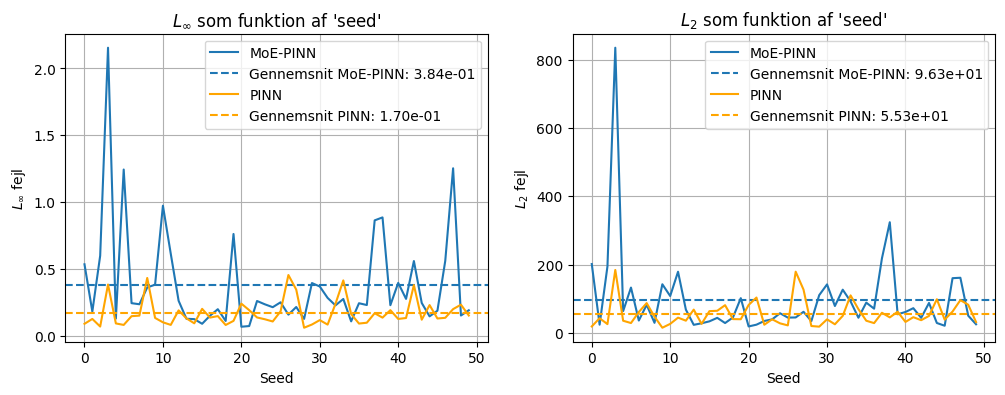
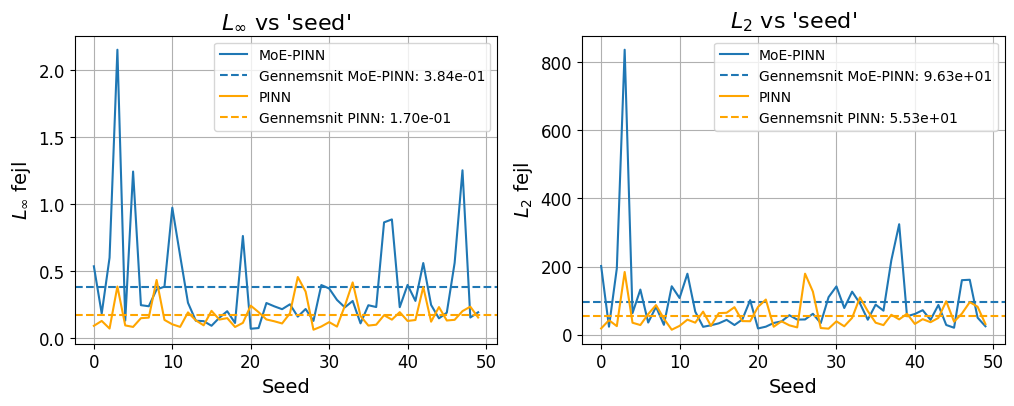
last plots

Changed region(s): [[0.0, 0.0304, 1.0, 0.9722]]

diff --git a/Data new/ExtraPlots.py b/Data new/ExtraPlots.py
@@ -3,6 +3,17 @@
 import numpy as np
 import matplotlib.pyplot as plt
 
+# Global fontstørrelse for alle plots
+plt.rcParams.update({
+    "font.size": 14,          # standard tekst
+    "axes.titlesize": 16,     # titler
+    "axes.labelsize": 14,     # akse-labels
+    "xtick.labelsize": 12,    # x-ticks
+    "ytick.labelsize": 12,    # y-ticks
+    "legend.fontsize": 10,    # legends
+    "figure.titlesize": 18,   # evt. overordnet figur-titel
+})
+
 data_moe = np.load("moe2dpos_expanded.npz")
 # data_moe_softa = np.load("moe2dpos_expa_softa.npz")
 data_pinn = np.load("pinn2dpos_expanded.npz")
@@ -11,7 +22,7 @@ data_softa = np.load("pinn2dpos_expa_softa.npz")
 seeds = np.arange(len(data_moe["L_max"]))
 
 # %%
-titles = ("MoE-PINN","MoE-PINN med SoftAdapt", "PINN med SoftAdapt")
+titles = ("MoE-PINN", "PINN med SoftAdapt")
 
 for i, model in enumerate((data_moe, data_softa)):
 
@@ -23,7 +34,7 @@ for i, model in enumerate((data_moe, data_softa)):
     ax[0].axhline(np.mean(data_pinn["L_max"]), linestyle="--", label=fr"Gennemsnit PINN: {np.mean(data_pinn['L_max']):.2e}", color ="orange")
     ax[0].set_xlabel("Seed")
     ax[0].set_ylabel(r"$L_\infty$ fejl")
-    ax[0].set_title(r"$L_\infty$ som funktion af 'seed'")
+    ax[0].set_title(r"$L_\infty$ vs 'seed'")
     ax[0].grid(True)
     ax[0].legend()
 
@@ -33,7 +44,7 @@ for i, model in enumerate((data_moe, data_softa)):
     ax[1].axhline(np.mean(data_pinn["L_2"]), linestyle="--", label=fr"Gennemsnit PINN: {np.mean(data_pinn['L_2']):.2e}", color ="orange")
     ax[1].set_xlabel("Seed")
     ax[1].set_ylabel(r"$L_2$ fejl")
-    ax[1].set_title(r"$L_2$ som funktion af 'seed'")
+    ax[1].set_title(r"$L_2$ vs 'seed'")
     ax[1].grid(True)
     ax[1].legend()
 
@@ -75,7 +86,7 @@ plt.semilogy(epochs, data_softa["val_l2"], label="PINN med SoftAdapt", color ="g
 
 plt.xlabel("Epoch")
 plt.ylabel(r"$L_2$-valideringsfejl")
-plt.title(r"Gennemsnitlig $L_2$-valideringsfejl som funktion af 'epoch'")
+plt.title(r"Gennemsnitlig $L_2$-valideringsfejl vs 'epoch'")
 plt.grid(True, which="both")
 plt.legend()
 plt.tight_layout()
@@ -95,8 +106,39 @@ plt.semilogy(epochs, data_softa["val_lmax"], label="PINN med SoftAdapt", color =
 
 plt.xlabel("Epoch")
 plt.ylabel(r"$L_\infty$-valideringsfejl")
-plt.title(r"Gennemsnitlig $L_\infty$-valideringsfejl som funktion af 'epoch'")
+plt.title(r"Gennemsnitlig $L_\infty$-valideringsfejl vs 'epoch'")
 plt.grid(True, which="both")
 plt.legend()
 plt.tight_layout()
 plt.show()
+
+#%%
+
+fig, ax = plt.subplots(1, 2, figsize=(12, 4))
+
+# Valideringsfejl: L2
+epochs = np.arange(len(data_moe["val_l2"]))
+
+ax[0].semilogy(epochs, data_moe["val_lmax"], label="MoE-PINN")
+ax[0].semilogy(epochs, data_pinn["val_lmax"], label="PINN", color="orange")
+# plt.semilogy(epochs, data_moe_softa["val_lmax"], label="MoE-PINN med SoftAdapt")
+ax[0].semilogy(epochs, data_softa["val_lmax"], label="PINN med SoftAdapt", color ="green")
+
+ax[0].set_xlabel("Epoch")
+ax[0].set_ylabel(r"$L_\infty$-valideringsfejl")
+ax[0].set_title(r"Gennemsnitlig $L_\infty$-valideringsfejl vs 'epoch'")
+ax[0].grid(True, which="both")
+ax[0].legend()
+
+ax[1].semilogy(epochs, data_moe["val_l2"], label="MoE-PINN")
+ax[1].semilogy(epochs, data_pinn["val_l2"], label="PINN", color="orange")
+# plt.semilogy(epochs, data_moe_softa["val_l2"], label="MoE-PINN med SoftAdapt")
+ax[1].semilogy(epochs, data_softa["val_l2"], label="PINN med SoftAdapt", color ="green")
+
+ax[1].set_xlabel("Epoch")
+ax[1].set_ylabel(r"$L_2$-valideringsfejl")
+ax[1].set_title(r"Gennemsnitlig $L_2$-valideringsfejl vs 'epoch'")
+ax[1].grid(True, which="both")
+ax[1].legend()
+
+# %%

diff --git a/Data new/Plot2DPoisson.py b/Data new/Plot2DPoisson.py
@@ -4,26 +4,41 @@ import numpy as np
 import matplotlib.pyplot as plt
 from matplotlib.colors import TwoSlopeNorm
 
+# Fælles fontstørrelser for alle plots
+TITLE_SIZE = 16
+LABEL_SIZE = 14
+TICK_SIZE = 12
+CBAR_TICK_SIZE = 12
+
+plt.rcParams.update({
+    "font.size": LABEL_SIZE,
+    "axes.titlesize": TITLE_SIZE,
+    "axes.labelsize": LABEL_SIZE,
+    "xtick.labelsize": TICK_SIZE,
+    "ytick.labelsize": TICK_SIZE,
+    "legend.fontsize": 12,
+})
+
 # Indlæs data
 data_moe = np.load("moe2dpos_expanded.npz")
-data_moe_softa = np.load("moe2dpos_expa_softa.npz")
+# data_moe_softa = np.load("moe2dpos_expa_softa.npz")
 data_pinn = np.load("pinn2dpos_expanded.npz")
 data_softa = np.load("pinn2dpos_expa_softa.npz")
 
 # Find fælles farveskala for fejlen på tværs af alle modeller
 err_max1 = np.max(data_moe["error_n"])
-err_max2 = np.max(data_moe_softa["error_n"])
+# err_max2 = np.max(data_moe_softa["error_n"])
 err_max3 = np.max(data_pinn["error_n"])
 err_max4 = np.max(data_softa["error_n"])
 
-err_max = max(err_max1, err_max2, err_max3, err_max4)
+err_max = max(err_max1, err_max3, err_max4)
 
 err_min1 = np.min(data_moe["error_n"])
-err_min2 = np.min(data_moe_softa["error_n"])
+# err_min2 = np.min(data_moe_softa["error_n"])
 err_min3 = np.min(data_pinn["error_n"])
 err_min4 = np.min(data_softa["error_n"])
 
-err_min = min(err_min1, err_min2, err_min3, err_min4)
+err_min = min(err_min1, err_min3, err_min4)
 
 # %%
 
@@ -31,7 +46,6 @@ err_min = min(err_min1, err_min2, err_min3, err_min4)
 for i, result in enumerate((
     "pinn2dpos_expanded.npz",
     "moe2dpos_expanded.npz",
-    "moe2dpos_expa_softa.npz",
     "pinn2dpos_expa_softa.npz"
 )):
     data = np.load(result)
@@ -39,7 +53,6 @@ for i, result in enumerate((
     titles = (
         "PINN",
         "MoE-PINN",
-        "MoE-PINN med SoftAdapt",
         "PINN med SoftAdapt"
     )
 
@@ -64,14 +77,16 @@ for i, result in enumerate((
     axes[0].set_title("Eksakt løsning")
     axes[0].set_xlabel("$x$")
     axes[0].set_ylabel("$y$")
-    fig.colorbar(cf1, ax=axes[0])
+    cbar1 = fig.colorbar(cf1, ax=axes[0])
+    cbar1.ax.tick_params(labelsize=CBAR_TICK_SIZE)
 
     # Gennemsnitlig prædiktion
     cf2 = axes[1].contourf(Xn, Yn, u_pred_n, levels=levels)
-    axes[1].set_title(f"{titles[i]}: gennemsnitlig prædiktion")
+    axes[1].set_title(f"{titles[i]}:\n gennemsnitlig prædiktion")
     axes[1].set_xlabel("$x$")
     axes[1].set_ylabel("$y$")
-    fig.colorbar(cf2, ax=axes[1])
+    cbar2 = fig.colorbar(cf2, ax=axes[1])
+    cbar2.ax.tick_params(labelsize=CBAR_TICK_SIZE)
 
     # Fejl
     err_norm = TwoSlopeNorm(
@@ -89,10 +104,11 @@ for i, result in enumerate((
         norm=err_norm
     )
 
-    axes[2].set_title("Fejl: prædiktion minus eksakt løsning")
+    axes[2].set_title("Fejl:\n prædiktion minus eksakt løsning")
     axes[2].set_xlabel("$x$")
     axes[2].set_ylabel("$y$")
-    fig.colorbar(cf3, ax=axes[2], ticks=np.linspace(err_min, err_max, 7))
+    cbar3 = fig.colorbar(cf3, ax=axes[2], ticks=np.linspace(err_min, err_max, 7))
+    cbar3.ax.tick_params(labelsize=CBAR_TICK_SIZE)
 
     plt.show()
 